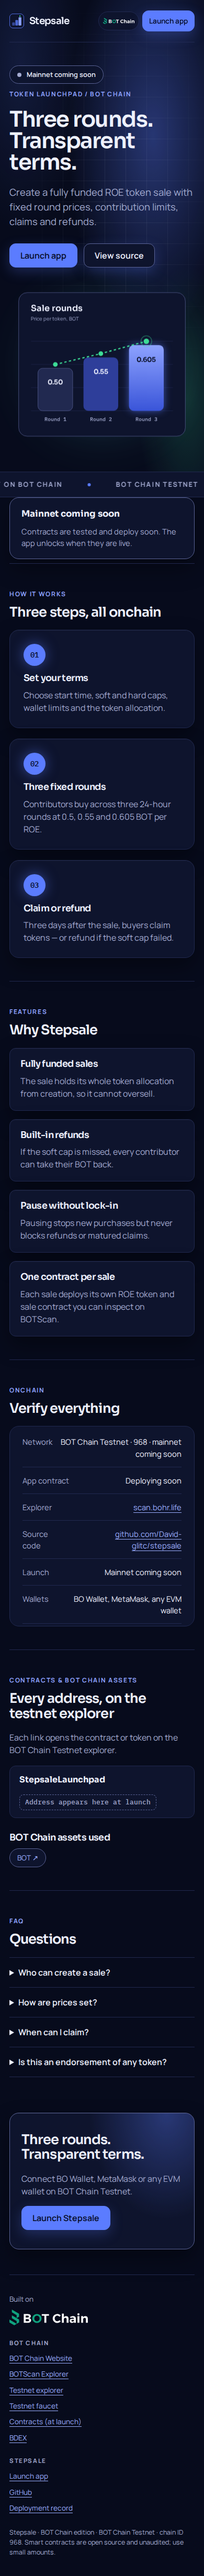
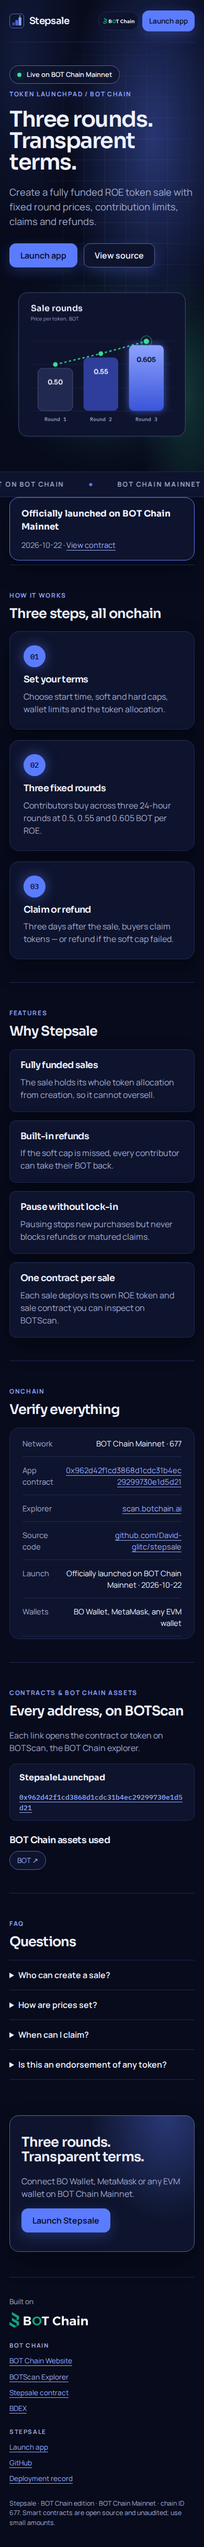
Officially launched on BOT Chain Mainnet

diff --git a/README.md b/README.md
@@ -2,7 +2,7 @@
 
 **Three rounds. Transparent terms.** Create a fully funded ROE token sale with fixed round prices, contribution limits, claims and refunds.
 
-**Status:** contracts are tested on a BOT Chain mainnet fork; the mainnet deployment is pending.
+**Officially launched on BOT Chain Mainnet** on 2026-10-22.
 
 - Website and app: https://stepsale.vercel.app (app at [`/app/`](https://stepsale.vercel.app/app/))
 - Network: BOT Chain mainnet, chain ID 677 · [BOT Chain](https://www.botchain.ai/) · [BOTScan](https://scan.botchain.ai/)
@@ -26,9 +26,9 @@
 
 | Contract | BOT Chain mainnet |
 |---|---|
-| `StepsaleLaunchpad` | Pending mainnet deployment |
+| `StepsaleLaunchpad` | [`0x962d42f1cd3868d1cdc31b4ec29299730e1d5d21`](https://scan.botchain.ai/address/0x962d42f1cd3868d1cdc31b4ec29299730e1d5d21) |
 
-BOT Chain infrastructure used: USDT `0x75edC9335175Fc0552D51D48439F229c10420fe3`, WBOT `0xD5452816194a3784dBa983426cCe7c122F4abd30`, BDEX router `0x07032d47A1b9f8460cBeE9dC17c1d3E438693929`, BDEX QuoterV2 `0x034A705b36067cff99ABf5C662Be881cBd8d0176`.
+BOT Chain infrastructure used: USDT `0xaBabc7Ddc03e501d190C676BF3d92ef0e6e87a3C`, WBOT `0xD5452816194a3784dBa983426cCe7c122F4abd30`, BDEX router `0x07032d47A1b9f8460cBeE9dC17c1d3E438693929`, BDEX QuoterV2 `0x034A705b36067cff99ABf5C662Be881cBd8d0176`.
 
 Source: [`contracts/src`](contracts/src). Tests: [`contracts/test`](contracts/test). The contracts are unaudited; use small amounts.
 
